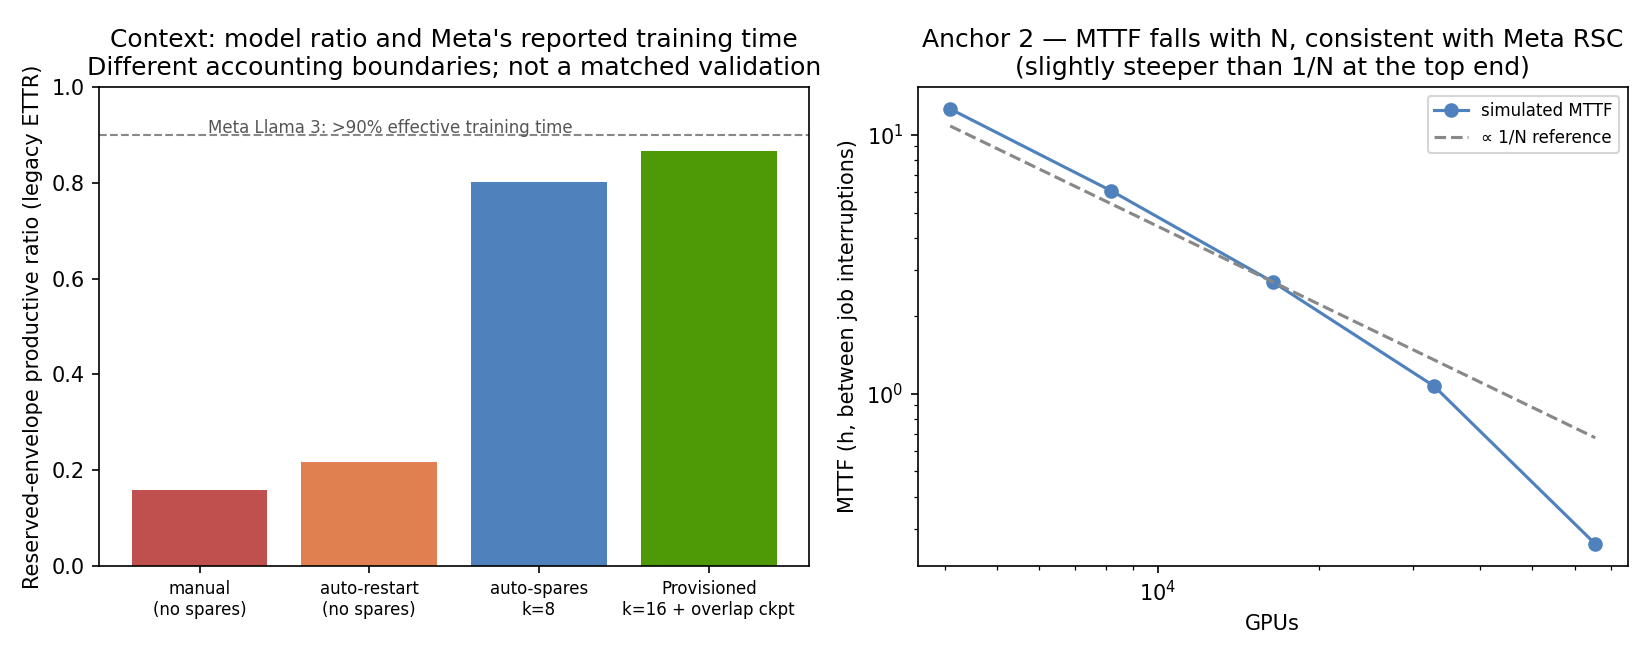
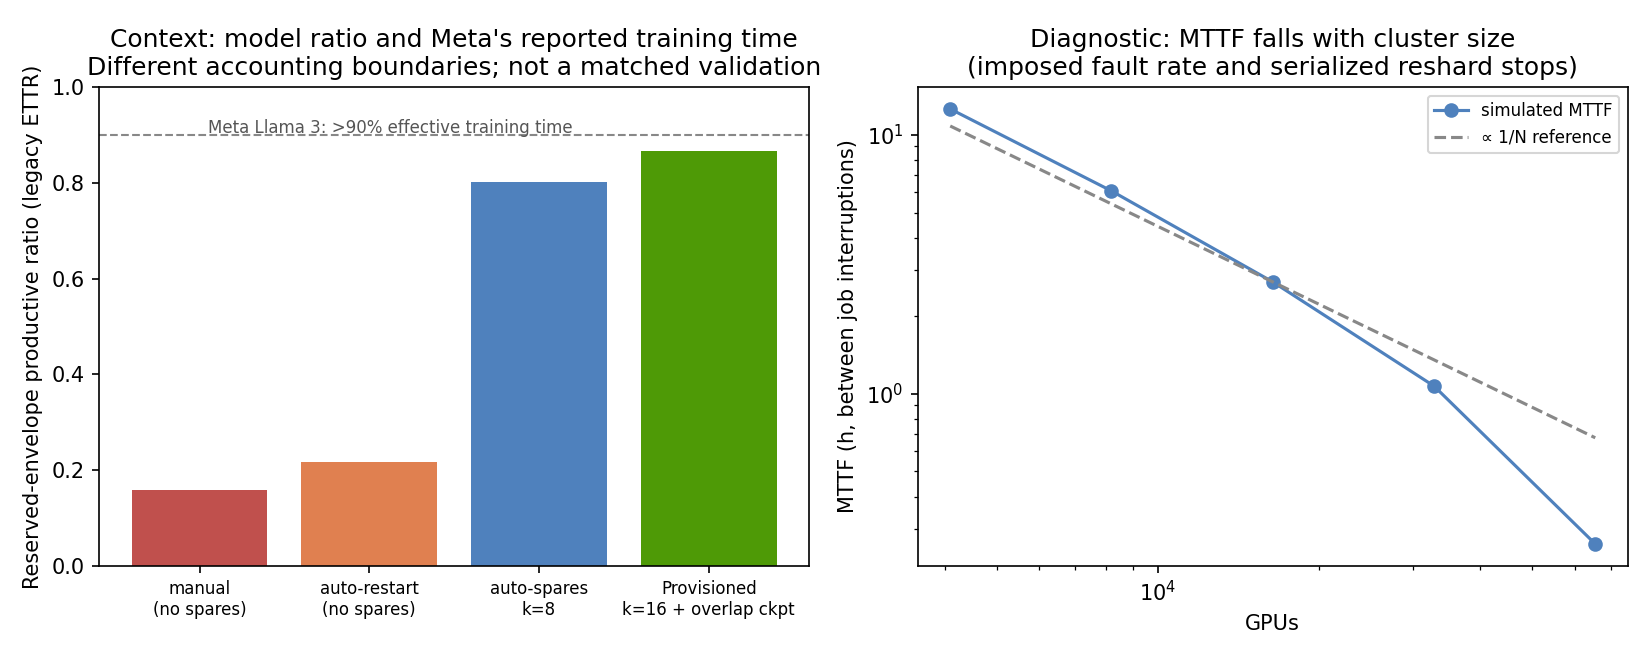
Resolve independent review findings in recovery interpretation
Correct interruption-count direction, qualify the benefit of checkpoint overlap, and explain elastic MTTF diagnostics using the actual reshard mechanism. Remove unsupported calibration bias claims and reseal the reviewed documentation and validation plot. Simulator behavior and economic results are unchanged.

Changed region(s): [[0.5564, 0.0303, 0.9891, 0.1212]]

diff --git a/sim/validation.py b/sim/validation.py
@@ -127,12 +127,13 @@ def points() -> list[Point]:
         actual=Config().single_rate_per_node_h * 1e4,
         note="Default single-node fault rate (x1e4 /node-h) vs the rate "
              "implied by 419 interruptions / 54 days / 2,048 nodes [1]. "
-             "Tuned to it; pinned so it cannot drift. Two simplifications "
-             "both push this rate DOWN (and so ETTR up), and a skeptic "
-             "should push on them: the job is assumed to hold all 16,384 "
-             "GPUs for the full 54 days (the paper says 'up to' 16K), and "
-             "every unexpected interruption is counted as one node fault "
-             "(the paper attributes ~78% to confirmed hardware).",
+             "Tuned to it; pinned so it cannot drift. The exposure assumes all "
+             "16,384 GPUs for 54 days (the paper says 'up to' 16K), "
+             "which can overstate node-hours. Treating every interruption "
+             "as a hardware fault includes nonhardware incidents: only "
+             "~78% were confirmed or suspected hardware. Multiple-node "
+             "faults add another uncertainty. These transfers do not establish "
+             "a common direction of bias in the inferred hardware hazard.",
     ))
 
     latent = statistics.mean(
@@ -221,7 +222,9 @@ def points() -> list[Point]:
              f"policy-conditioned — and is the repo's core point — is the "
              f"contrast with a naive no-spare posture, which surfaces "
              f"{naive:.1f} of the SAME latent faults, "
-             f"{surfaced / naive:.1f}x fewer.",
+             f"{surfaced / naive:.1f} times as many are counted in the faster-recovery "
+             "posture. Long outages coalesce faults; fewer counted stops "
+             "alone does not establish better recovery.",
     ))
 
     widths = (512, 1024, 2048, 4096, 8192)
@@ -236,10 +239,12 @@ def points() -> list[Point]:
              "STRUCTURAL and cannot fail: latent_events sets "
              "total_node_rate = single_rate x nodes, so rate ~ N is an input "
              "of the generator, not a finding. What this point pins is the "
-             "EXCESS above 2x — the recovery layer degrading faster than "
-             "linearly as a fixed spare pool and repair queue saturate at "
-             "width. Cites nothing: the agreement with Meta's ~1/N [2] and "
-             "the LANL study [10] is a consistency check on direction, "
+             "EXCESS above 2x in this elastic-policy diagnostic: MTTF divides "
+             "remaining uptime by interruptions, while each event charges "
+             "a serialized reshard stop. The shrinking numerator steepens "
+             "the decline. Elastic uses no spare pool, so this is not "
+             "spare-pool saturation. Cites nothing; Meta [2] and LANL [10] "
+             "supply qualitative context, "
              "discussed in docs/study.md, not evidence produced here.",
     ))
 

diff --git a/sim/run.py b/sim/run.py
@@ -136,8 +136,8 @@ def fig_validation(seeds, figdir):
     axR.loglog(gpus, ref, ls="--", color="#888888", label="∝ 1/N reference")
     axR.set_xlabel("GPUs")
     axR.set_ylabel("MTTF (h, between job interruptions)")
-    axR.set_title("Anchor 2 — MTTF falls with N, consistent with Meta RSC\n"
-                  "(slightly steeper than 1/N at the top end)")
+    axR.set_title("Diagnostic: MTTF falls with cluster size\n"
+                  "(imposed fault rate and serialized reshard stops)")
     axR.legend(fontsize=8)
     fig.tight_layout()
     fig.savefig(figdir / "validation.png", dpi=150)

diff --git a/docs/study.md b/docs/study.md
@@ -12,7 +12,7 @@ An earlier version of this model (the [v0 baseline](../v0-baseline/), kept for r
 
 The [simulator](../sim/reliability_sim.py) makes five choices the critique demanded (details in [BUILD_SPEC](../BUILD_SPEC.md)):
 
-1. **Shared latent events, not policy-conditioned interruptions.** Hardware faults occur on one absolute-time timeline per seed; every policy faces the *same* faults and differs only in detection and recovery. Interruptions are an *output*, not the input — so a policy that recovers well genuinely experiences fewer job stops, and no policy is scored against another's interruption stream.
+1. **Shared latent events, not policy-conditioned interruptions.** Hardware faults occur on one absolute-time timeline per seed; every policy faces the *same* faults and differs only in detection and recovery. Interruptions are an *output*, not the input. Faster recovery can expose more separate, shorter interruptions because long outages coalesce multiple faults; fewer counted stops alone does not mean better recovery. No policy is scored against another's interruption stream.
 2. **Correlated failures.** A base rate of single-node faults plus rarer common-cause bursts (rack/PDU/switch) that take out a *blast radius* of nodes at once. Independent Poisson is the blast-radius-1 special case.
 3. **Spares as a finite queue** with swap/reload, repair and requalification clocks; return-to-pool follows repair plus requalification. A used spare is unavailable for hours; the pool can be exhausted. This is what the v0 "always-sufficient pool" got wrong.
 4. **Checkpoint as a policy lever with a write cost.** Frequent checkpointing cuts lost work but costs write stalls; overlapped (async) checkpointing hides most of the stall — the ByteRobust regime [3], as the checkpoint-systems literature (CheckFreq, Gemini, just-in-time checkpointing) established [4]. There is a real Young/Daly optimum [5].
@@ -28,7 +28,7 @@ Reading it (blue = warm spares + overlapped checkpoint win; red = elastic-shrink
 
 - **No spares (k = 0) loses to elastic in the modeled sweep.** Idling the fleet for every repair is the worst posture there is (16–24% ETTR); if you hold no reserve, degrade gracefully instead.
 - **Elastic-shrink is competitive across the modeled sweep (~0.80).** It needs no reserved pool, degrades to the next legal shape, and beats a spare pool at small k and under large bursts — a two-node pool (the v0 "biggest lever") *loses to elastic even under independent failures*.
-- **A right-sized pool + overlapped checkpointing (k ≈ 8) is the best policy (~0.87) — but only in a band, and by a thin margin over elastic.** The pool must match the blast radius: too small and it collapses to the repair wait; too large and the idle reservation — now charged to the envelope — drags ETTR back down (k = 32 scores *below* k = 8). Overlapped checkpointing is the co-lever that makes the spare policy the winner at all.
+- **A right-sized pool + overlapped checkpointing (k ≈ 8) is the best policy (~0.87) — but only in a band, and by a thin margin over elastic.** The pool must match the blast radius: too small and it collapses to the repair wait; too large and the idle reservation — now charged to the envelope — drags ETTR back down (k = 32 scores *below* k = 8). Overlap increases the advantage; it is not required for every spare-policy win. In the independent scenario, even the eight-spare blocking-checkpoint policy slightly exceeds elastic in the local productive ratio and has lower modeled nonproductive-capacity value (see the complete CSV).
 - **The winner is a region, not an ordering, and the winning margin is thin.** That honesty is the finding: recovery strategy is a design choice against your failure process; elastic is competitive almost everywhere; spares earn their keep only when right-sized to the blast radius.
 
 ![Spares vs elastic as the pool grows](../figures/crossover.png)
@@ -69,7 +69,7 @@ Detection time — the gap between the ~30 s InfiniBand transport timeout and th
 ![Validation against anchors](../figures/validation.png)
 
 - **Context 1 — Meta's >90% effective training time.** A configuration with a right-sized spare pool, overlapped checkpointing and fast detection yields a local productive ratio of ~0.87. Meta's >90% effective training time on the Llama 3 405B run [1] is context, not reproduction of an equivalent numerator/denominator; the model does not establish Meta's recovery configuration or outcomes.
-- **Context 2 — Meta RSC's MTTF vs N.** Sweeping cluster size, MTTF between job interruptions falls with GPU count, consistent with Meta RSC's ∝ 1/N scaling — though slightly *steeper* than 1/N at the top end (a doubling ratio approaching ~2.9× rather than 2×), which is the expected direction for real fleets and which the model does not tune to fit [2]. Treat this as a consistency check on the direction and rough magnitude, not a fitted validation.
+- **Context 2 — Meta RSC's MTTF vs N.** The elastic-policy sweep reports uptime divided by counted interruptions. The fault generator imposes a rate proportional to node count, and each event also charges a serialized 0.5-hour reshard stop. As width grows, those stops reduce the uptime numerator, so this diagnostic falls faster than 1/N. The registry prints the exact successive doubling ratios. Elastic uses no spare pool; spare-pool saturation does not explain this curve. Its numerical slope is not a fit to Meta's fleet observations [2].
 
 ## What a skeptic should attack
 

diff --git a/paper/paper.md b/paper/paper.md
@@ -16,7 +16,7 @@ A first-generation version of this model reported a single headline ("a two-node
 
 ## 2. Model
 
-One gang-scheduled training job of *N* GPUs runs for a horizon *H*. Hardware faults occur on **one absolute-time latent timeline per random seed**, shared by every policy; a policy differs only in how it detects and recovers, so a policy that recovers well genuinely experiences fewer job interruptions and no policy is scored against another's interruption stream. The failure process is a base rate of single-node faults plus rarer common-cause **bursts** of a blast radius *b* (rack/PDU/switch), with the total node-failure rate held fixed as *b* varies so correlation is isolated from rate.
+One gang-scheduled training job of *N* GPUs runs for a horizon *H*. Hardware faults occur on **one absolute-time latent timeline per random seed**, shared by every policy; a policy differs only in how it detects and recovers, so interruptions and their duration depend on the policy. Faster recovery can expose more separate, shorter interruptions while lengthy outages coalesce faults; fewer counted interruptions alone is not a reliability advantage. No policy is scored against another's interruption stream. The failure process is a base rate of single-node faults plus rarer common-cause **bursts** of a blast radius *b* (rack/PDU/switch), with the total node-failure rate held fixed as *b* varies so correlation is isolated from rate.
 
 Five recovery policies are compared: **manual** (page a human), **auto-restart** (no spares), **auto-spares** (a finite warm pool of *k* nodes with three distinct clocks — swap-in-and-reload, repair, requalification (return-to-pool being their sum)), **auto-spares + overlapped checkpointing**, and **elastic-shrink** (run narrower to the next legal data-parallel shape, paying a reshard cost). Checkpoint cadence is a lever with a write cost (blocking vs overlapped/async), giving a Young–Daly optimum. Crucially, the **reserved spare pool is priced into the envelope**: a pool held out of production is a cost, so a larger pool must earn its keep to raise ETTR.
 
@@ -40,7 +40,7 @@ The eight spare nodes are an additional 64 GPUs, charged $115,200 over 720 hours
 
 ## 4. Validation
 
-*(Figure: `figures/validation.png`.)* A provisioned configuration yields a modeled reserved-envelope productive ratio of ~0.87, while naive recovery yields ~0.16–0.22. Meta's published >90% effective training time supplies external context; differing denominators and workloads prevent treating that comparison as quantitative validation. MTTF between job interruptions falls with cluster size, consistent with Meta RSC's ∝1/N scaling (slightly steeper at the top end).
+*(Figure: `figures/validation.png`.)* A provisioned configuration yields a modeled reserved-envelope productive ratio of ~0.87, while naive recovery yields ~0.16–0.22. Meta's published >90% effective training time supplies external context; differing denominators and workloads prevent treating that comparison as quantitative validation. The elastic MTTF diagnostic falls with cluster size under the imposed fault rate and serialized reshard stops; this is an internal model relationship, not a fitted reproduction of Meta RSC's scaling curve. See the study for the denominator and mechanism.
 
 ## 5. Related work
 

diff --git a/README.md b/README.md
@@ -34,7 +34,7 @@ The pool is **eight additional nodes / 64 GPUs**, not eight GPUs removed from th
 
 ![Validation](figures/validation.png)
 
-A configuration with a right-sized pool, overlapped checkpointing and fast detection reaches a modeled productive ratio of ~0.87. Meta reports >90% effective training time [1], but this is contextual evidence with a different scope; MTTF falls with cluster size, consistent with Meta RSC's ∝ 1/N (slightly steeper at the top end) [2] — though rate ∝ N is an *input* of the fault generator, so this is a direction check, not a fitted validation. The model compares recovery policies; it does not reproduce Meta's production result or establish that hardware, workloads and accounting boundaries are identical.
+A configuration with a right-sized pool, overlapped checkpointing and fast detection reaches a modeled productive ratio of ~0.87. Meta reports >90% effective training time [1], but this is contextual evidence with a different scope; MTTF falls with cluster size, in the direction of Meta RSC's scale relationship [2] — though rate ∝ N is an *input* of the fault generator, so this is a direction check, not a fitted validation. The model compares recovery policies; it does not reproduce Meta's production result or establish that hardware, workloads and accounting boundaries are identical.
 
 These anchors are machine-checked by a six-point validation registry
 ([sim/validation.py](sim/validation.py)) run in CI, split into three
@@ -59,9 +59,10 @@ interruptions (vs a naive no-spare posture's 107, a 3.5× gap that *is*
 policy-conditioned — the repo's core point). And MTTF degradation
 steepens past linear across four doublings (2.07×, 2.25×, 2.53×,
 4.07×): a ~2× ratio is *structural*, since rate ∝ N is an input of the
-generator, so only the excess above 2× — the recovery layer saturating
-at width — is a model result. Agreement with Meta's ∝1/N [2] and the
-LANL study [10] is a direction check discussed in
+generator. This diagnostic divides remaining uptime by counted interruptions;
+the elastic policy charges serialized 0.5-hour reshard stops, reducing the
+numerator increasingly at width. It uses no spare pool. This is an internal
+model relationship; comparison with Meta [2] and LANL [10] is qualitative context in
 [docs/study.md](docs/study.md), not evidence produced here.
 
 The registry also prints the external outcomes it **declines** to reproduce: [1]'s >90% training-time figure as a matched metric, [2]'s absolute ~1.8 h MTTF projection, and [3]'s <1% checkpoint overhead. Synthetic data is the seeded
